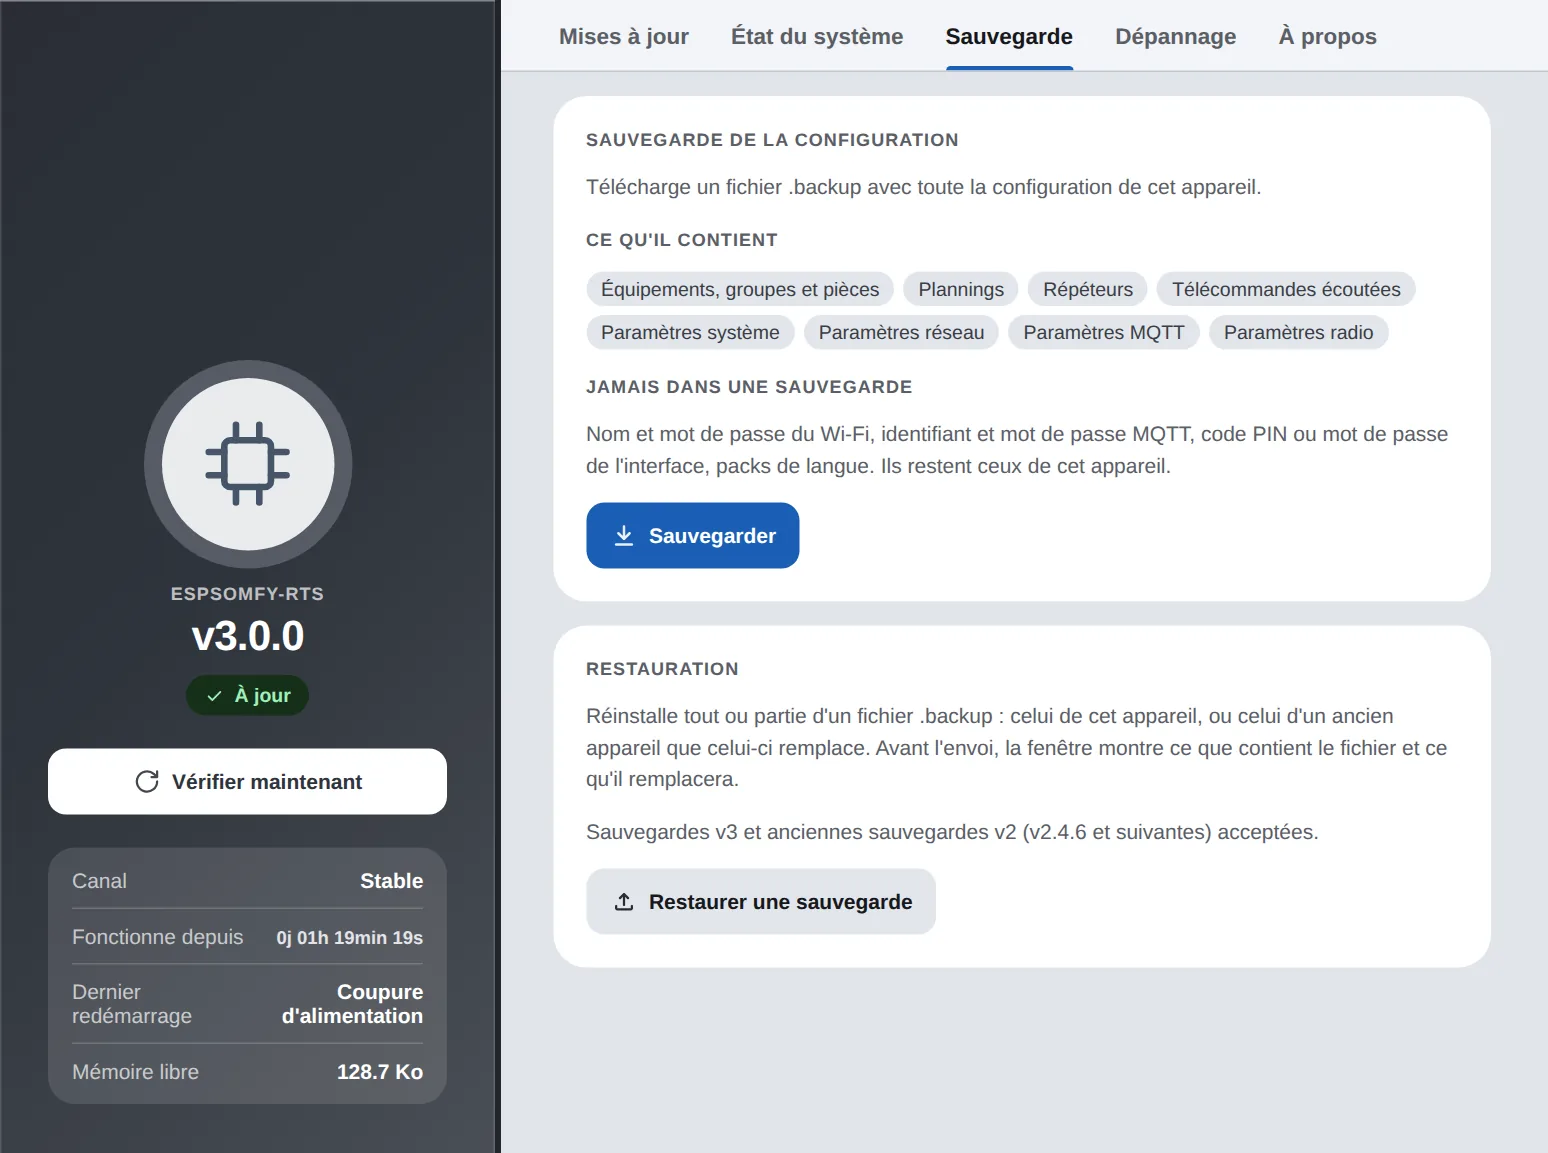
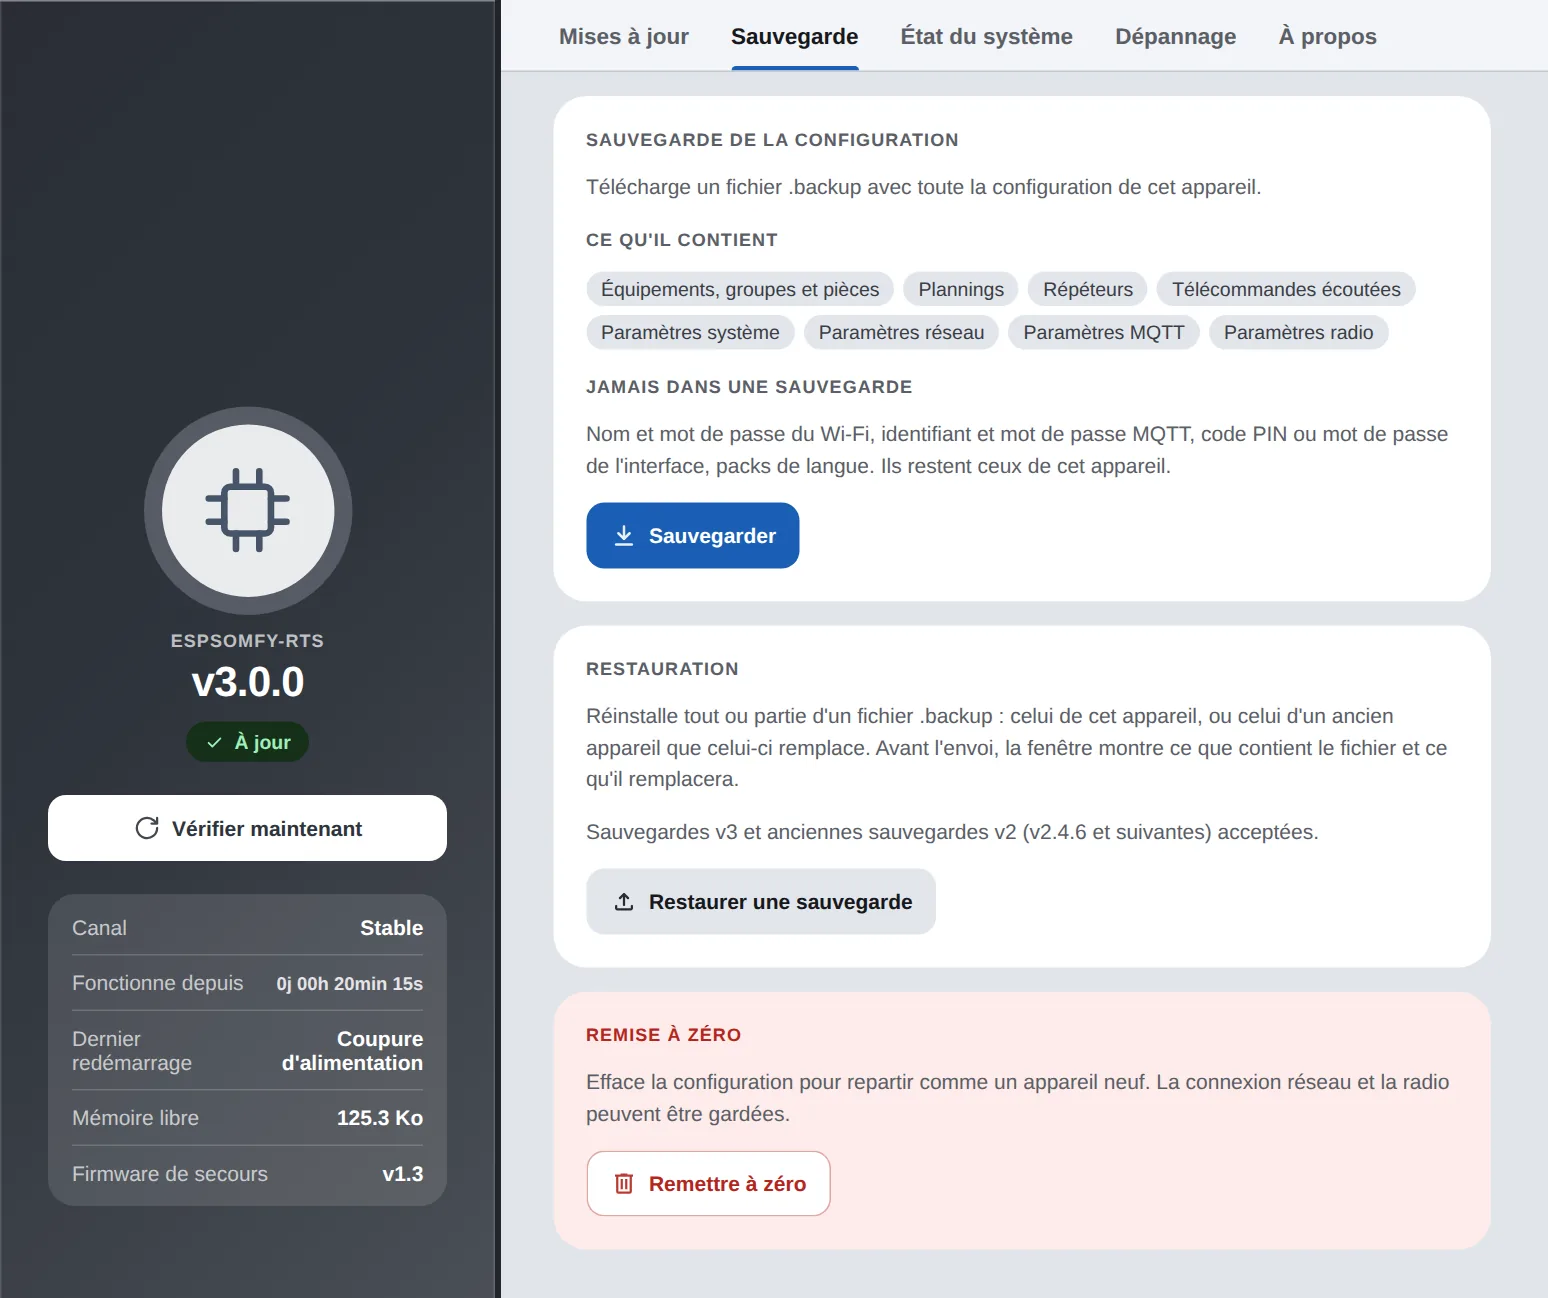
Bring the System page doc in line with the current interface
The sections follow the new tab order: Updates, Backup, System status,
Troubleshooting, About. The factory reset is documented under Backup,
with its "keep network and radio" button. Troubleshooting now covers
the firmware log, the last crash and the browser reload; System status
describes both firmware spaces and the reinstall button of the rescue
firmware, whose version the hero and the Updates tab also show.

The rescue firmware page explains why it exists in three points: a
single 2368 KB slot instead of two 1792 KB ones, an update that never
leaves the device empty, and a reset that does not depend on a broken
main firmware.

The ten captures were retaken on the test device. Checked with
docs/verifier.sh: no dead link or anchor. The work in progress in
data-dev and the locales is left out.

diff --git a/docs/content/v3/appareil/systeme/index.md b/docs/content/v3/appareil/systeme/index.md
@@ -20,7 +20,8 @@ Le bandeau de gauche (en haut sur téléphone) reste affiché quel que soit l'on
 * le bouton `Vérifier maintenant`, qui relance la recherche d'une mise à jour (absent sur
     téléphone, où le même bouton se trouve dans l'onglet Mises à jour) ;
 * **Détails**, à déplier : le canal (stable ou développement), la durée de fonctionnement, la
-    raison du dernier redémarrage et la mémoire libre.
+    raison du dernier redémarrage, la mémoire libre et la version du
+    [firmware de secours](firmware-de-secours.md).
 
 ## Mises à jour { #update }
 
@@ -31,10 +32,10 @@ jour ou restauration.
 
 | Tuile | Ce qu'elle montre ou permet |
 |---|---|
-| **Version installée** | Le numéro de version, l'état (*Votre système est à jour*, *Mise à jour disponible*…) et l'heure de la dernière vérification. Quand une version est disponible, la tuile affiche la version proposée, un lien vers ses **notes de version** et un bouton pour l'installer. La ligne **Choisir une autre version** permet de réinstaller, de revenir en arrière ou de passer en version de développement. |
+| **Version installée** | Le numéro de version, l'état (*Votre système est à jour*, *Mise à jour disponible*…), l'heure de la dernière vérification et la version du **firmware de secours**. Quand une version est disponible, la tuile affiche la version proposée, un lien vers ses **notes de version** et un bouton pour l'installer. La ligne **Choisir une autre version** permet de réinstaller, de revenir en arrière ou de passer en version de développement. |
 | **Vérification automatique** | **Me prévenir des mises à jour** : `Oui` / `Non`. La vérification a lieu à chaque ouverture de l'interface ; rien n'est installé sans votre accord. |
 | **Canal** | **Version stable** (une version publiée) ou **Version de développement** (construite à chaque modification du code, sans être éprouvée). |
-| **Installation manuelle** | Sans passer par Internet, avec un fichier téléchargé au préalable. **Installer depuis un fichier** envoie une image `.bin` faite pour votre carte (son nom est rappelé sous le bouton). **Redémarrer sur le firmware de secours** demande confirmation, redémarre l'appareil sur son firmware minimal et ouvre sa page. |
+| **Installation manuelle** | Sans passer par Internet, avec un fichier téléchargé au préalable. **Installer depuis un fichier** envoie une image `.bin` faite pour votre carte (son nom est rappelé sous le bouton). **Redémarrer sur le firmware de secours** demande confirmation, puis redémarre l'appareil sur ce firmware minimal, qui sert à installer un fichier ou à réinitialiser des réglages. |
 
 C'est **votre navigateur**, et non l'appareil, qui va chercher les versions publiées : c'est lui qui
 doit avoir accès à Internet.
@@ -46,6 +47,41 @@ n'est pas touchée.
 Pour aller plus loin : [Mises à jour du firmware](mises-a-jour.md) et
 [Firmware de secours](firmware-de-secours.md).
 
+## Sauvegarde { #backup }
+
+![Système, onglet Sauvegarde](v3/img/systeme-backup){ .on-glb }
+
+| Tuile | Ce qu'elle montre ou permet |
+|---|---|
+| **Sauvegarde de la configuration** | `Sauvegarder` télécharge un fichier `.backup` avec toute la configuration de l'appareil. La tuile énumère ce qu'il contient (équipements, groupes et pièces, plannings, répéteurs, télécommandes écoutées, paramètres système, réseau, MQTT et radio) et ce qu'il ne contient jamais. |
+| **Restauration** | `Restaurer une sauvegarde` réinstalle tout ou partie d'un fichier `.backup`, celui de cet appareil ou celui d'un ancien appareil qu'il remplace. Avant l'envoi, la fenêtre montre ce que contient le fichier et ce qu'il remplacera. Les sauvegardes v3 et les anciennes sauvegardes v2 (v2.4.6 et suivantes) sont acceptées. |
+| **Remise à zéro** | `Remettre à zéro` efface la configuration pour repartir comme un appareil neuf. La connexion réseau et la radio peuvent être gardées. |
+
+Ne figurent **jamais** dans une sauvegarde : le nom et le mot de passe du Wi-Fi, l'identifiant et le
+mot de passe MQTT, le code PIN ou le mot de passe de l'interface, les packs de langue. Ils restent
+ceux de l'appareil sur lequel vous restaurez.
+
+!!! warning "Ne publiez jamais un fichier de sauvegarde"
+
+    Il ne contient aucun mot de passe, mais il contient les adresses radio et les codes tournants
+    de vos équipements. Ne le joignez pas à un message de forum ni à une demande d'aide.
+
+La remise à zéro ouvre une fenêtre qui liste ce qui sera effacé : les équipements, groupes, pièces,
+plannings et télécommandes liées ; les réglages, la sécurité (PIN, mot de passe, jeton d'API) et
+MQTT ; les langues téléchargées ; l'appairage avec les moteurs, qui ne répondront plus tant qu'ils ne
+sont pas appairés à nouveau ou qu'une sauvegarde n'est pas restaurée. Elle propose une sauvegarde,
+puis deux boutons, actifs une fois la case de confirmation cochée :
+
+* `Garder réseau et radio` : l'appareil redémarre et revient sur votre réseau ;
+* `Tout effacer` : l'appareil redémarre sur son point d'accès de secours.
+
+!!! danger "Rien ne pourra être annulé"
+
+    Seule une sauvegarde faite avant permet de revenir en arrière.
+
+Pour aller plus loin : [Restaurer le système](restaurer.md) et
+[Anatomie du fichier de sauvegarde](anatomie-sauvegarde.md).
+
 ## État du système { #status }
 
 ![Système, onglet État du système](v3/img/systeme-status){ .on-glb }
@@ -56,7 +92,7 @@ Pour aller plus loin : [Mises à jour du firmware](mises-a-jour.md) et
 | **Fonctionnement** | Depuis combien de temps l'appareil tourne, depuis combien de temps sa connexion réseau (Wi-Fi ou Ethernet) est établie, et la raison du dernier redémarrage. Les deux durées peuvent différer : une reconnexion réseau ne redémarre pas l'appareil. |
 | **Mémoire Vive (RAM)** | La mémoire libre, avec le plus bas observé depuis le démarrage et le plus grand bloc d'un seul tenant. Ce dernier compte plus que le total pour la stabilité : une mémoire morcelée peut refuser une grosse demande même avec beaucoup de libre. |
 | **Mémoire Flash** | La part occupée du système de fichiers (packs de langue, sauvegarde interne), puis la taille et la vitesse de la puce flash. |
-| **Espace du firmware** | La part occupée de la partition qui reçoit le firmware. Elle dit la marge qui reste pour les versions à venir. |
+| **Espace des firmwares** | La part occupée de la partition qui reçoit le firmware, c'est-à-dire la marge qui reste pour les versions à venir. En dessous, la même mesure pour le **firmware de secours**. S'il est marqué *Absent ou invalide*, le bouton `Réinstaller` le remet en place depuis les versions publiées : sans lui, ni les mises à jour ni les trois coupures d'alimentation ne fonctionnent. |
 
 ### Profil matériel
 
@@ -83,28 +119,8 @@ Pour aller plus loin : [Mises à jour du firmware](mises-a-jour.md) et
 | Sortie de veille | réveil après une mise en veille profonde |
 | Tension d'alimentation insuffisante | l'alimentation était trop faible ou instable |
 
-Les deux premières sont normales. Les autres, si elles reviennent souvent, justifient d'activer les
-**logs de debug** (onglet [Dépannage](#troubleshoot)) pour en trouver la cause.
-
-## Sauvegarde { #backup }
-
-![Système, onglet Sauvegarde](v3/img/systeme-backup){ .on-glb }
-
-| Tuile | Ce qu'elle montre ou permet |
-|---|---|
-| **Sauvegarde de la configuration** | `Sauvegarder` télécharge un fichier `.backup` avec toute la configuration de l'appareil : équipements, groupes et pièces, plannings, répéteurs, télécommandes écoutées, paramètres système, réseau, MQTT et radio. |
-| **Restauration** | `Restaurer une sauvegarde` réinstalle tout ou partie d'un fichier `.backup`, celui de cet appareil ou celui d'un ancien appareil qu'il remplace. Avant l'envoi, la fenêtre montre ce que contient le fichier et ce qu'il remplacera. Les sauvegardes v3 et les anciennes sauvegardes v2 (v2.4.6 et suivantes) sont acceptées. |
-
-Ne figurent **jamais** dans une sauvegarde : le nom et le mot de passe du Wi-Fi, l'identifiant et le
-mot de passe MQTT, le code PIN ou le mot de passe de l'interface, les packs de langue.
-
-!!! warning "Ne publiez jamais un fichier de sauvegarde"
-
-    Il ne contient aucun mot de passe, mais il contient les adresses radio et les codes tournants
-    de vos équipements. Ne le joignez pas à un message de forum ni à une demande d'aide.
-
-Pour aller plus loin : [Restaurer le système](restaurer.md) et
-[Anatomie du fichier de sauvegarde](anatomie-sauvegarde.md).
+Les deux premières sont normales. Pour les autres, l'onglet [Dépannage](#troubleshoot) montre le
+journal du firmware et, après une erreur interne, la trace du dernier plantage.
 
 ## Dépannage { #troubleshoot }
 
@@ -112,19 +128,19 @@ Pour aller plus loin : [Restaurer le système](restaurer.md) et
 
 | Tuile | Ce qu'elle montre ou permet |
 |---|---|
-| **Débogage** | **Logs de debug** : `Oui` / `Non`. Affiche des informations détaillées sur le port série et dans la console du navigateur (trames radio, requêtes réseau…). À n'activer qu'en cas de dépannage : l'appareil en est légèrement ralenti. **Vider le cache** force le navigateur à recharger l'interface, si un défaut d'affichage persiste après une mise à jour. |
-| **Remise à zéro** | `Remettre à zéro` efface la configuration pour repartir comme un appareil neuf. |
+| **Journal du firmware** | Les derniers messages de l'appareil, les mêmes que sur son port série : de quoi comprendre un échec sans câble USB. **Logs de debug** (`Oui` / `Non`) rend le journal détaillé (trames radio envoyées, requêtes réseau…), ainsi que la console du navigateur ; à n'activer que pour un dépannage, car l'appareil en est légèrement ralenti. `Pause` fige le défilement, `Copier` et `Télécharger` récupèrent le journal. |
+| **Dernier plantage** | *Aucun plantage enregistré*, ou bien la trace laissée par le dernier plantage : la tâche en cours, l'adresse où le firmware s'est arrêté, et si c'était cette version ou une autre. La trace est gardée jusqu'à ce que vous l'effaciez ; `Copier`, `Télécharger` et `Effacer` sont sous la trace. |
+| **Navigateur** | **Recharger l'interface** recharge la page dans ce navigateur, si un défaut d'affichage persiste après une mise à jour. Les réglages de l'appareil ne changent pas. |
 
-La remise à zéro ouvre une fenêtre qui liste ce qui sera effacé : les équipements, groupes, pièces,
-plannings et télécommandes liées ; les réglages, la sécurité et MQTT ; les langues téléchargées ;
-l'appairage avec les moteurs, qui ne répondront plus tant qu'ils ne sont pas appairés à nouveau ou
-qu'une sauvegarde n'est pas restaurée. Elle propose une sauvegarde, puis deux boutons, actifs une fois
-la case de confirmation cochée : garder la connexion réseau, ou tout effacer. Dans ce dernier cas,
-l'appareil redémarre sur son point d'accès de secours.
+Le journal ne garde que les messages les plus récents : les plus anciens s'effacent, et tout repart
+de zéro au redémarrage. Avec les logs de debug, ils défilent bien plus vite. Une ligne
+*messages effacés avant d'avoir pu être lus* signale un trou, une ligne *l'appareil a redémarré*
+un redémarrage pendant la lecture.
 
-!!! danger "Rien ne pourra être annulé"
+!!! tip "Signaler un plantage"
 
-    Seule une sauvegarde faite avant permet de revenir en arrière.
+    Joignez la trace du dernier plantage (`Copier`) à votre signalement sur GitHub (onglet
+    [À propos](#about)) : elle dit où le firmware s'est arrêté.
 
 Si l'interface ne répond plus du tout, ou si le firmware lui-même ne démarre plus, voir le
 [firmware de secours](firmware-de-secours.md#trois-coupures) (trois coupures d'alimentation).

diff --git a/docs/content/v3/appareil/systeme/firmware-de-secours.md b/docs/content/v3/appareil/systeme/firmware-de-secours.md
@@ -10,14 +10,28 @@ disponible même quand le firmware principal est abîmé, effacé ou incapable d
 
 ## Pourquoi il existe
 
-Le firmware principal ne s'écrit jamais lui-même. Chaque mise à jour passe par le firmware de
-secours : l'appareil y redémarre, reçoit l'image, l'écrit, puis redémarre sur le nouveau firmware.
-Votre configuration (réseau, sécurité, équipements, plannings) n'est pas touchée.
+Il prend la suite de la réinitialisation par coupures d'alimentation apparue en v2.5.0, et va
+plus loin sur trois points.
 
-Si quelque chose tourne mal (envoi coupé, image refusée, nouveau firmware qui plante au démarrage),
-l'appareil revient sur le firmware de secours au lieu de rester sans rien. Et quand c'est la
-configuration qui pose problème (Wi-Fi erroné, code PIN oublié, réglage qui bloque l'interface), le
-même firmware permet d'effacer précisément ce qu'il faut, sans dépendre du firmware principal.
+**Plus de place pour le firmware.** Une mise à jour en ligne classique (OTA) réserve deux
+emplacements de même taille : le firmware tourne dans l'un pendant que le suivant s'écrit dans
+l'autre. Sur une mémoire flash de 4 Mo, chacun ne disposait que de 1 792 Ko, et l'un des deux
+restait vide la plupart du temps. Ici, le firmware principal n'a plus qu'un emplacement, et
+c'est le firmware de secours, bien plus petit, qui l'écrit. Le firmware principal dispose
+ainsi de 2 368 Ko, soit 576 Ko de plus (un tiers), sans renoncer aux mises à jour en ligne.
+
+**Une mise à jour qui ne laisse jamais l'appareil sans rien.** Le firmware principal ne s'écrit
+jamais lui-même. Chaque mise à jour passe par le firmware de secours : l'appareil y redémarre,
+reçoit l'image, l'écrit, puis redémarre sur le nouveau firmware. Votre configuration (réseau,
+sécurité, équipements, plannings) n'est pas touchée. Si quelque chose tourne mal (envoi coupé,
+image refusée, nouveau firmware qui plante au démarrage), l'appareil revient sur le firmware de
+secours au lieu de rester inutilisable.
+
+**Un dépannage qui ne dépend pas du firmware en panne.** L'ancienne réinitialisation vivait
+dans le firmware principal : s'il ne démarrait plus, elle disparaissait avec lui. Le firmware
+de secours est rangé à part. Wi-Fi erroné, code PIN oublié, réglage qui bloque l'interface :
+il efface précisément ce qu'il faut, même quand le firmware principal ne démarre plus. Le
+firmware principal s'en trouve allégé d'environ 16 Ko.
 
 Il est différent du **point d'accès de secours** habituel, celui qui s'ouvre quand l'appareil n'a
 pas ou plus de Wi-Fi : voir [la comparaison plus bas](#point-d-acces).
